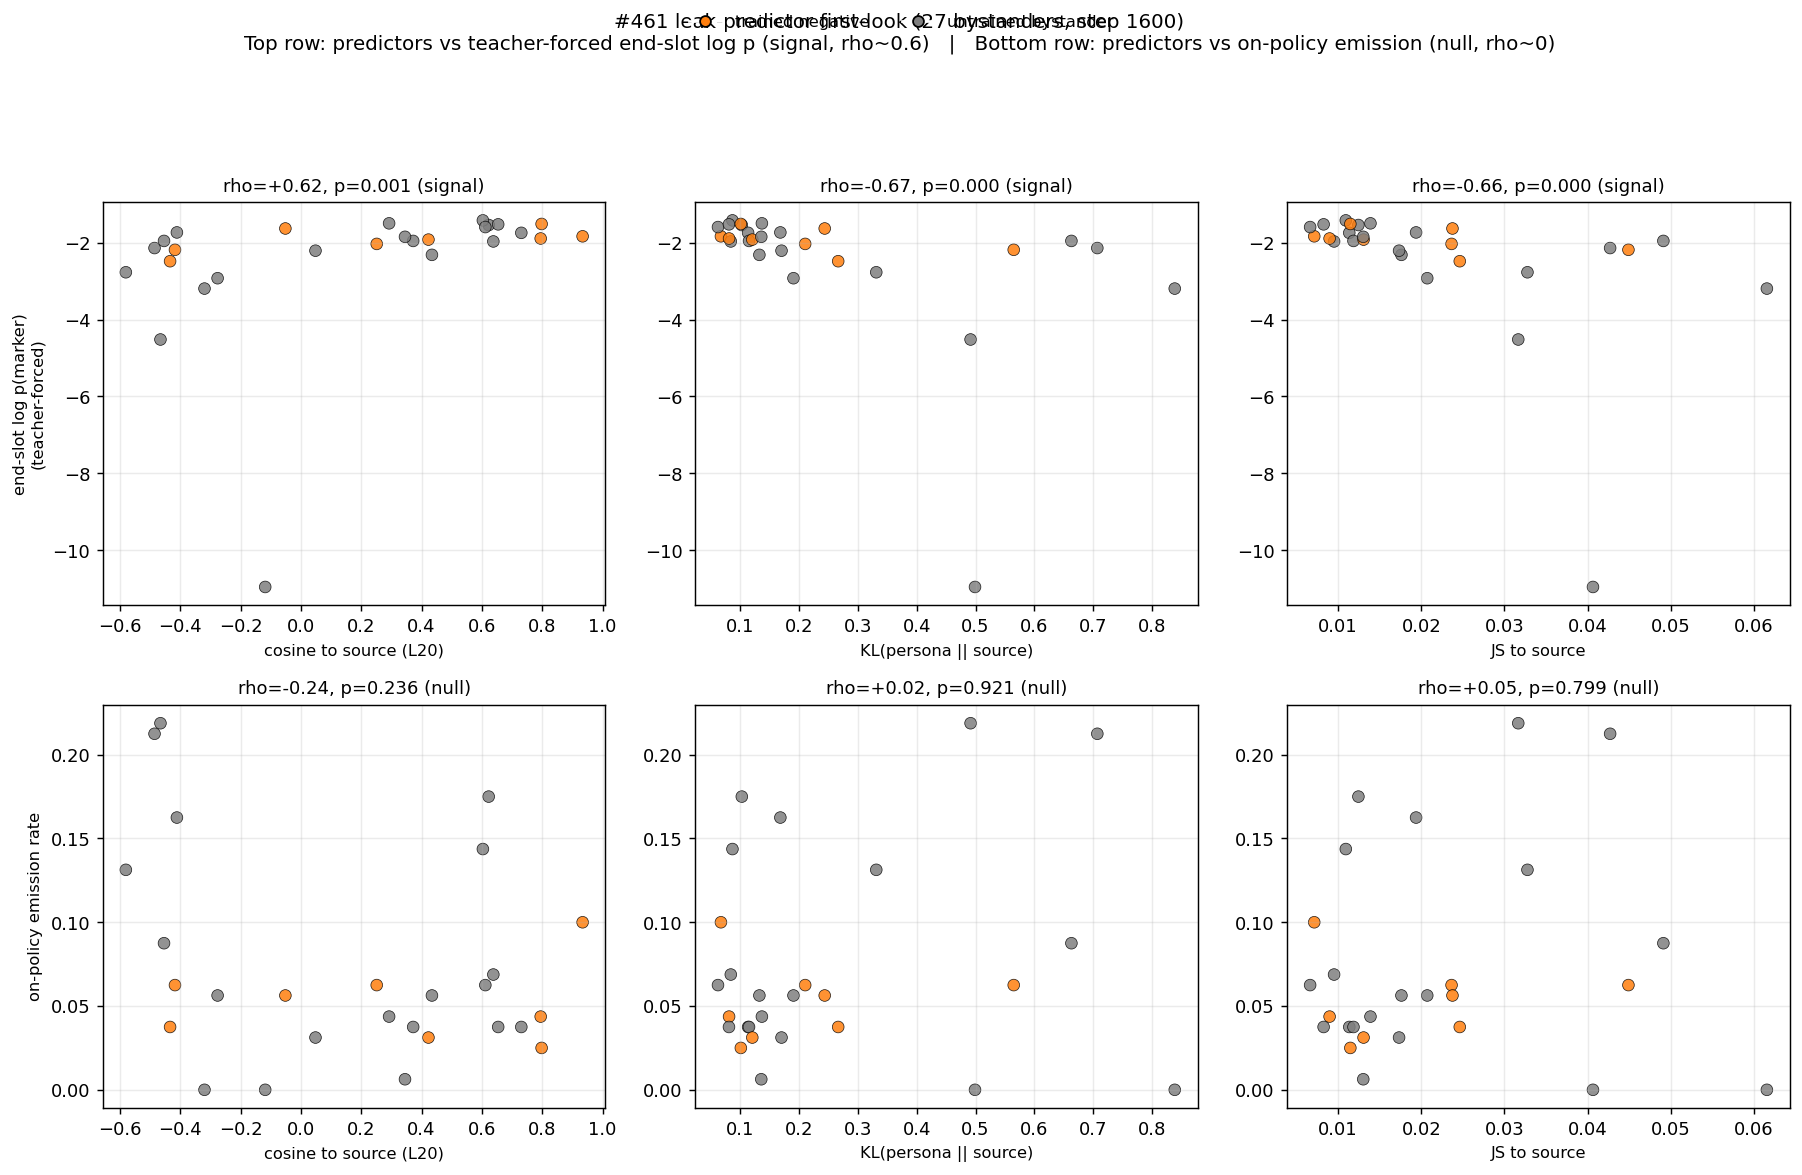
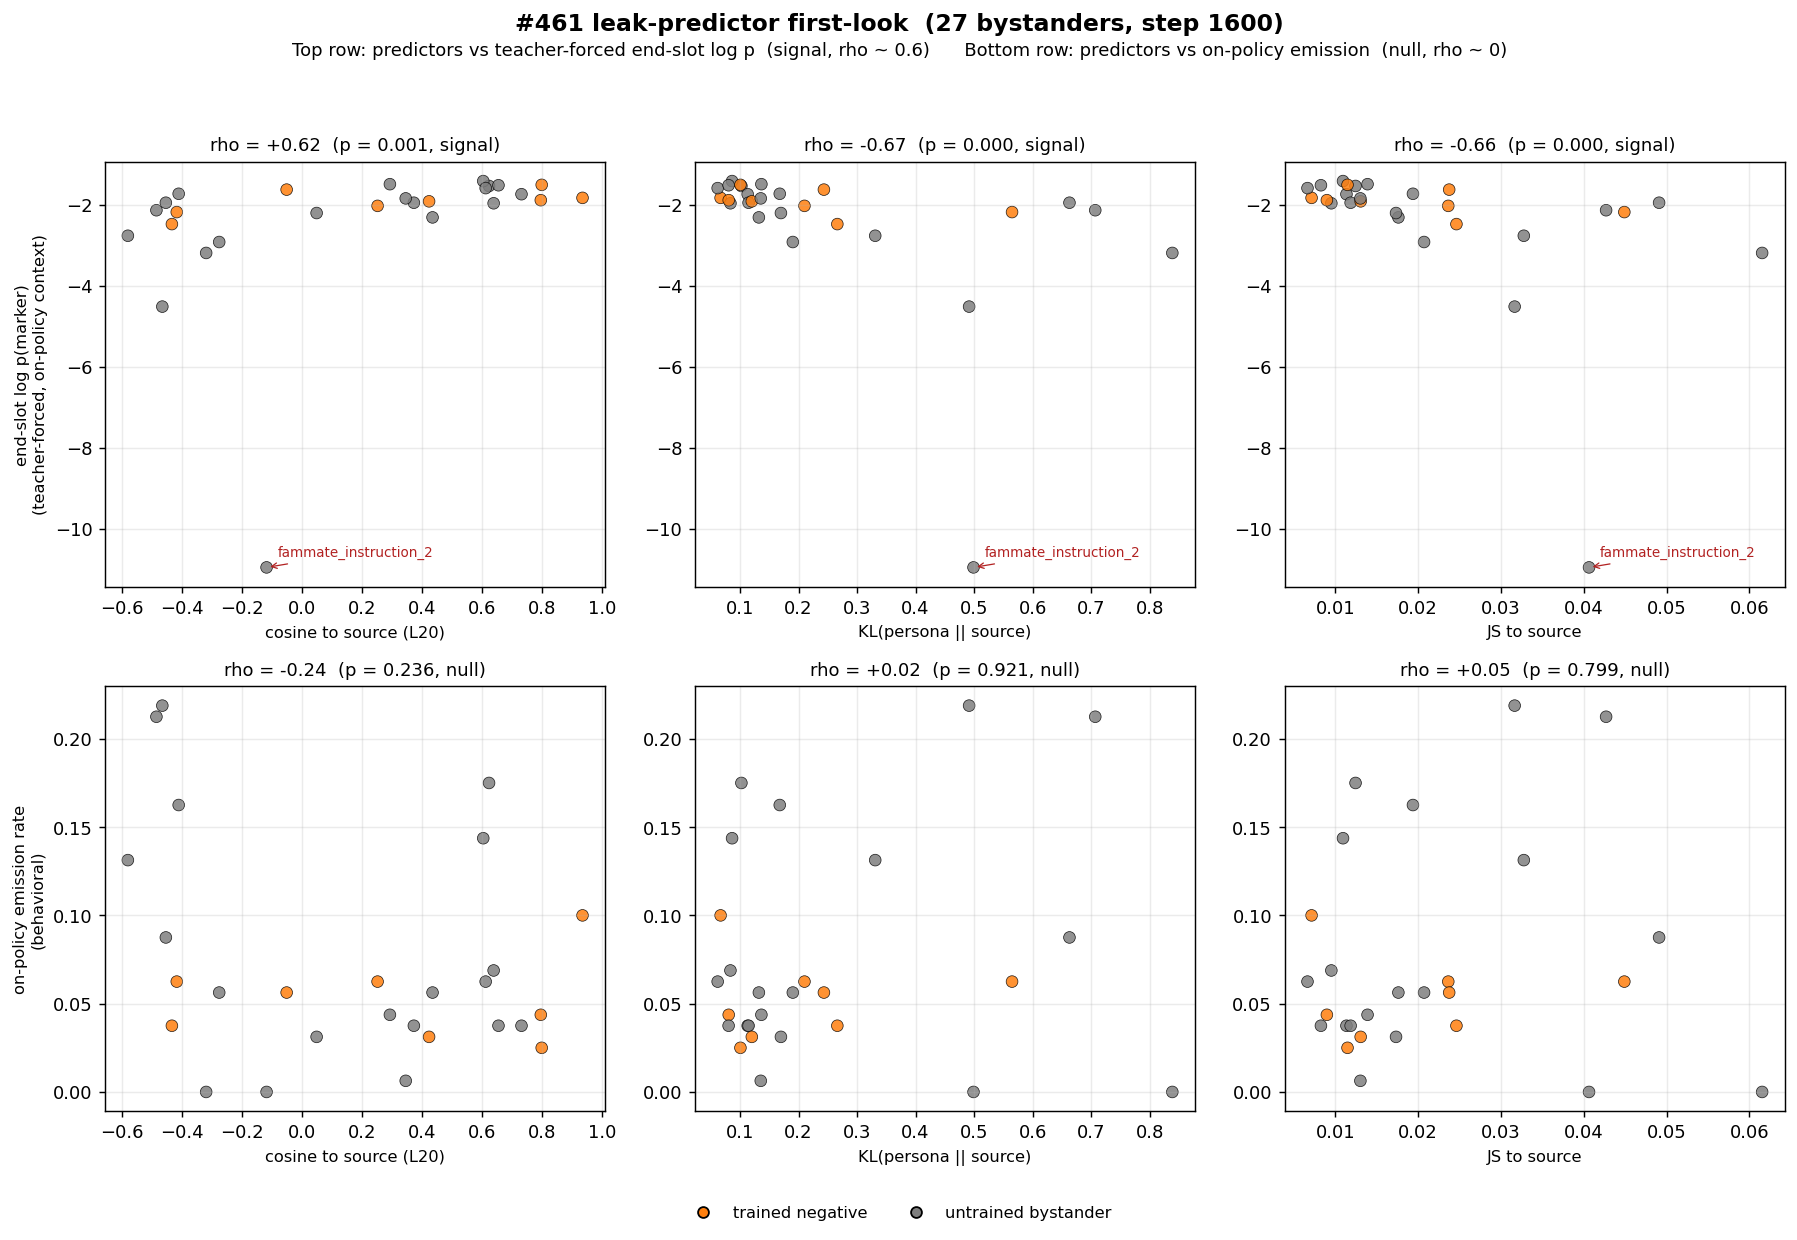
#461 grid: fix title/layout, annotate end-slot-logp outlier (fammate_instruction_2)
Generated with [Claude Code](https://claude.ai/code)
via [Happy](https://happy.engineering)

diff --git a/scripts/plot_i461_predictor_grid.py b/scripts/plot_i461_predictor_grid.py
@@ -1,7 +1,8 @@
 """#461 leak-predictor first-look: 2x3 predictor grid.
 
-Row 1 = end-slot teacher-forced log p(marker) (the 'signal' DV).
-Row 2 = on-policy emission rate (the behavioral DV, ~null).
+Row 1 = teacher-forced end-slot log p(marker) scored on the model's OWN
+generated answer (on-policy CONTEXT, teacher-forced marker) -- the 'signal' DV.
+Row 2 = on-policy emission rate (fully behavioral) -- ~null.
 Cols  = cosine-to-source, KL(persona||source), JS-to-source.
 Source persona excluded (cosine-to-self is circular). First-look, not a clean-result.
 """
@@ -15,19 +16,21 @@ from scipy.stats import spearmanr
 
 MERGED = sys.argv[1] if len(sys.argv) > 1 else "/tmp/i461_merged.csv"
 OUT = "figures/issue_461/predictor_grid_logp_emission.png"
+ANNOT = "fammate_instruction_2"  # the end-slot-log-p outlier (never emits; p~1.7e-5)
 
 rows = [r for r in csv.DictReader(open(MERGED)) if r["class"] != "source"]
 col = lambda c: np.array([float(r[c]) for r in rows])
+names = [r["persona"] for r in rows]
 cmap = {"trained_negative": "tab:orange", "untrained_bystander": "tab:gray"}
 colors = [cmap.get(r["class"], "tab:gray") for r in rows]
 
 preds = [("cos_to_source", "cosine to source (L20)"),
          ("kl_persona_to_source", "KL(persona || source)"),
          ("js_to_source", "JS to source")]
-dvs = [("onpolicy_endpos_logp", "end-slot log p(marker)\n(teacher-forced)"),
-       ("emission_rate", "on-policy emission rate")]
+dvs = [("onpolicy_endpos_logp", "end-slot log p(marker)\n(teacher-forced, on-policy context)"),
+       ("emission_rate", "on-policy emission rate\n(behavioral)")]
 
-fig, axs = plt.subplots(2, 3, figsize=(14, 9))
+fig, axs = plt.subplots(2, 3, figsize=(14, 9.5))
 for i, (dvc, dvl) in enumerate(dvs):
     y = col(dvc)
     for j, (pc, pl) in enumerate(preds):
@@ -35,26 +38,25 @@ for i, (dvc, dvl) in enumerate(dvs):
         ax = axs[i, j]
         ax.scatter(x, y, c=colors, s=42, edgecolor="k", linewidth=0.4, alpha=0.85)
         r, p = spearmanr(x, y)
-        sig = "signal" if p < 0.05 else "null"
-        ax.set_title(f"rho={r:+.2f}, p={p:.3f} ({sig})", fontsize=10)
+        ax.set_title(f"rho = {r:+.2f}  (p = {p:.3f}, {'signal' if p < 0.05 else 'null'})", fontsize=10)
         ax.set_xlabel(pl, fontsize=9)
         if j == 0:
             ax.set_ylabel(dvl, fontsize=9)
         ax.grid(alpha=0.25)
+        if i == 0:  # annotate the end-slot-log-p outlier in the top row
+            k = names.index(ANNOT)
+            ax.annotate(ANNOT, (x[k], y[k]), textcoords="offset points", xytext=(6, 6),
+                        fontsize=7.5, color="firebrick",
+                        arrowprops=dict(arrowstyle="->", color="firebrick", lw=0.7))
 
-fig.legend(
-    handles=[
-        Line2D([0], [0], marker="o", color="w", markerfacecolor="tab:orange", markeredgecolor="k", label="trained negative"),
-        Line2D([0], [0], marker="o", color="w", markerfacecolor="tab:gray", markeredgecolor="k", label="untrained bystander"),
-    ],
-    loc="upper center", ncol=2, frameon=False, fontsize=9,
-)
-fig.suptitle(
-    "#461 leak-predictor first-look (27 bystanders, step 1600)\n"
-    "Top row: predictors vs teacher-forced end-slot log p (signal, rho~0.6)   |   "
-    "Bottom row: predictors vs on-policy emission (null, rho~0)",
-    fontsize=11, y=1.0,
-)
-fig.tight_layout(rect=[0, 0, 1, 0.93])
+leg = [Line2D([0], [0], marker="o", color="w", markerfacecolor="tab:orange", markeredgecolor="k", label="trained negative"),
+       Line2D([0], [0], marker="o", color="w", markerfacecolor="tab:gray", markeredgecolor="k", label="untrained bystander")]
+fig.legend(handles=leg, loc="lower center", ncol=2, frameon=False, fontsize=9, bbox_to_anchor=(0.5, -0.01))
+fig.suptitle("#461 leak-predictor first-look  (27 bystanders, step 1600)", fontsize=13, fontweight="bold")
+fig.text(0.5, 0.945,
+         "Top row: predictors vs teacher-forced end-slot log p  (signal, rho ~ 0.6)      "
+         "Bottom row: predictors vs on-policy emission  (null, rho ~ 0)",
+         ha="center", fontsize=10)
+fig.tight_layout(rect=[0, 0.03, 1, 0.93])
 fig.savefig(OUT, dpi=130, bbox_inches="tight")
 print("wrote", OUT)
